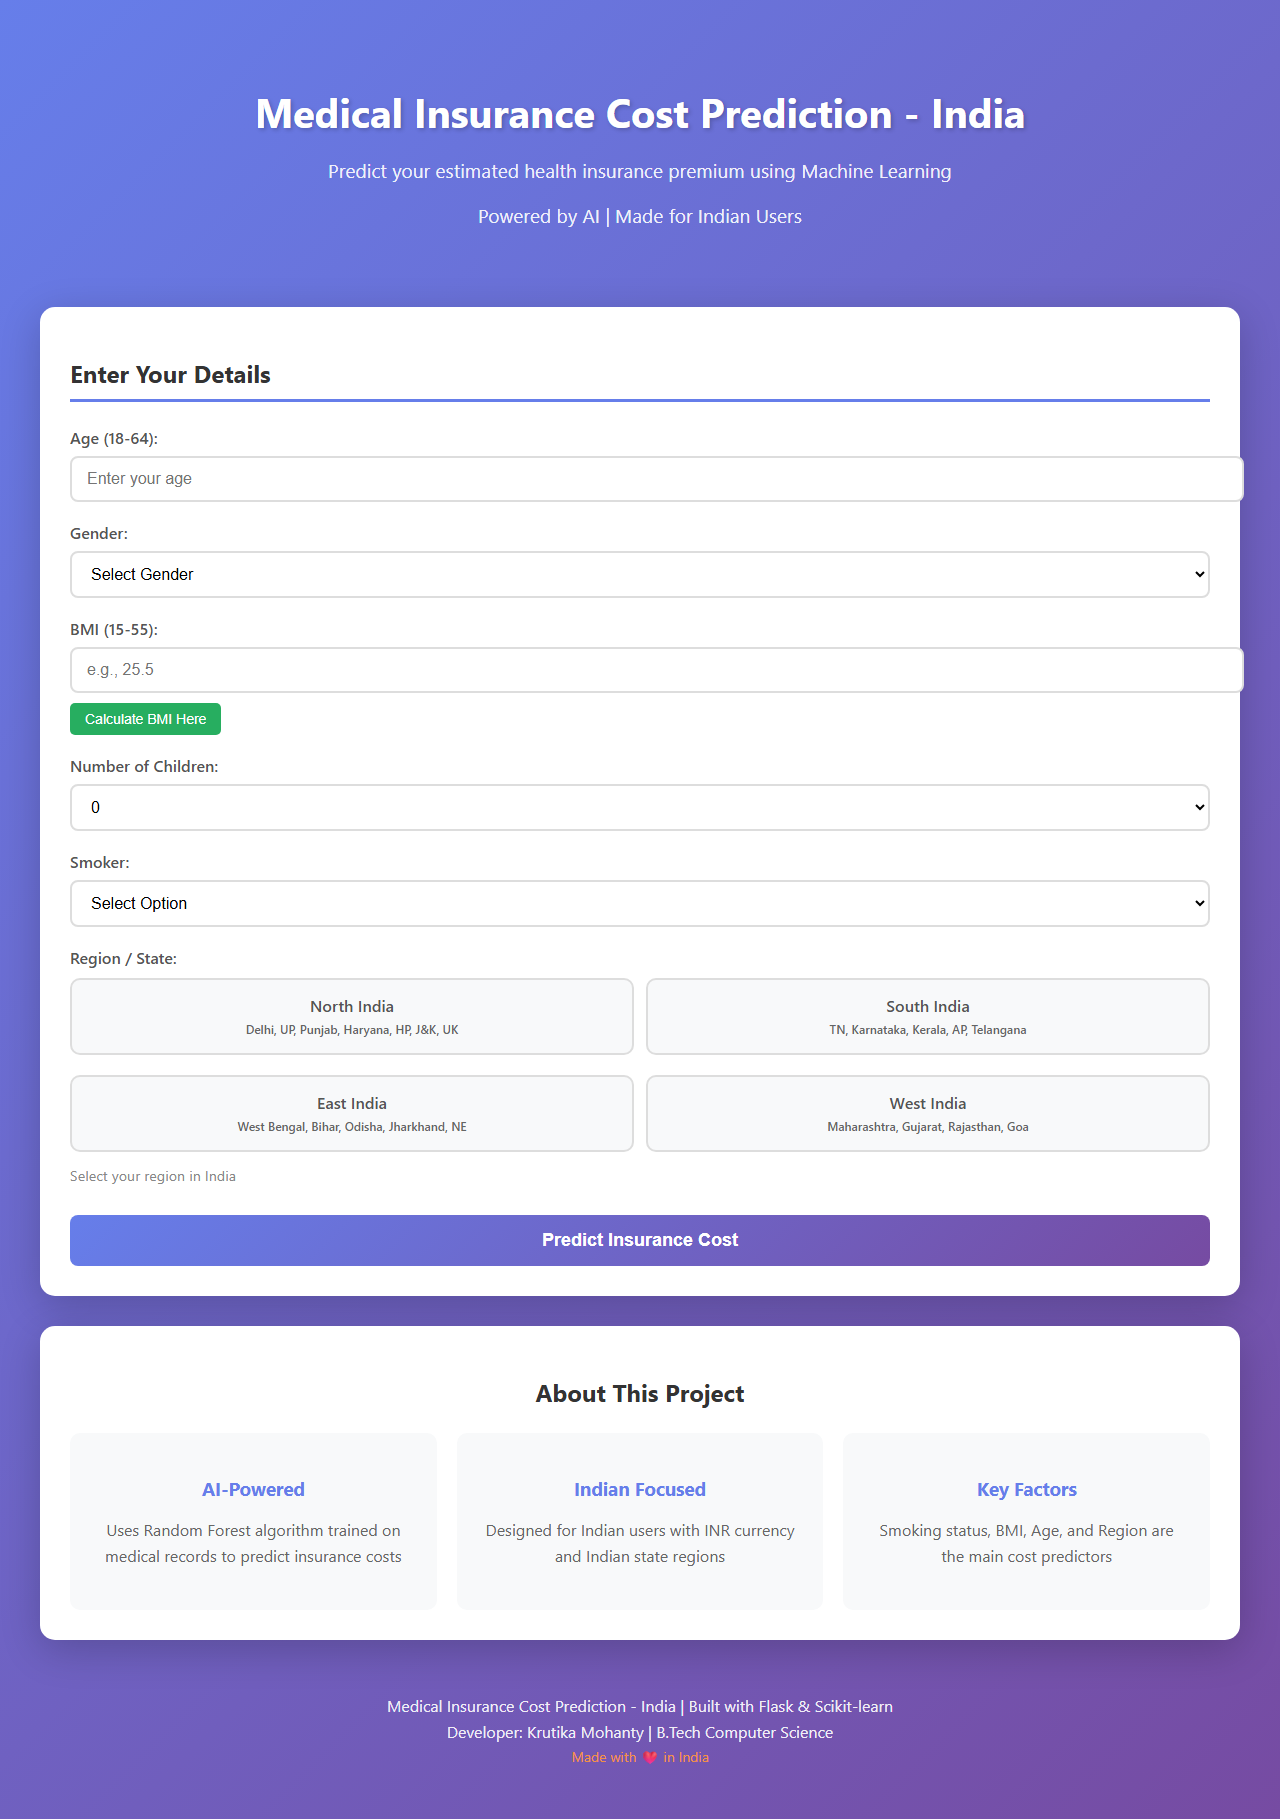
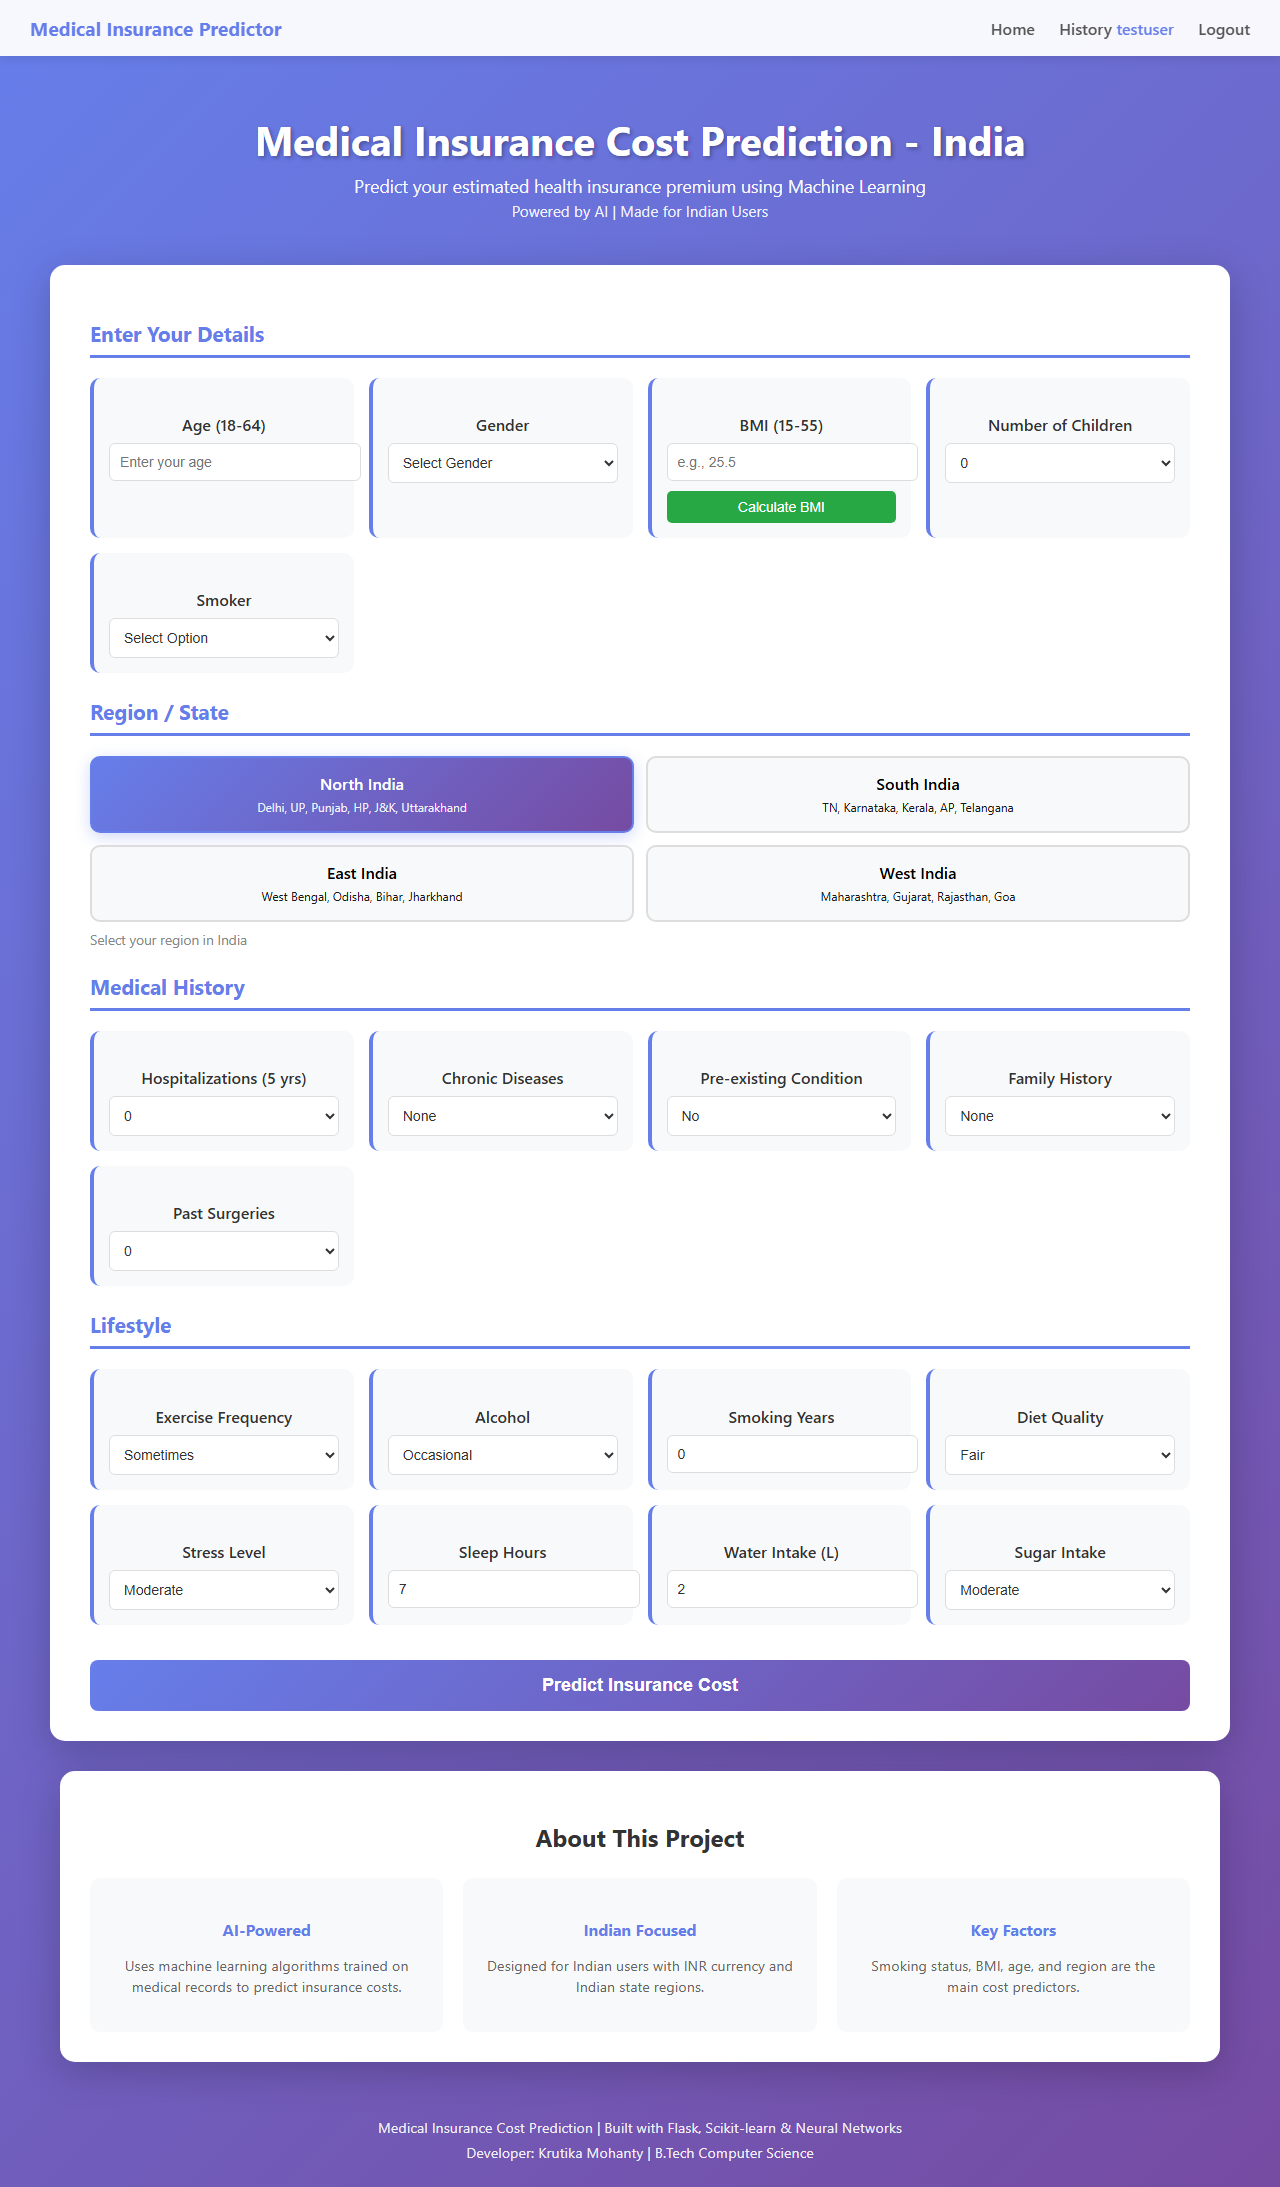
Capture fresh screenshots matching current interface - Flask login, form, result, and Streamlit app

Changed region(s): [[0.0, 0.0, 1.0, 0.9852], [0.75, 0.0616, 0.7812, 0.0924]]

diff --git a/capture_screenshots.py b/capture_screenshots.py
@@ -1,0 +1,134 @@
+"""
+Capture app screenshots using Playwright.
+Updated to match current interface with radio buttons for region.
+"""
+import subprocess
+import time
+import sys
+import os
+
+print("=" * 60)
+print("CAPTURING APP SCREENSHOTS")
+print("=" * 60)
+
+# Start Flask app
+print("\n[1] Starting Flask app...")
+flask_process = subprocess.Popen(
+    [sys.executable, 'app.py'],
+    stdout=subprocess.PIPE,
+    stderr=subprocess.PIPE,
+    cwd=os.getcwd()
+)
+time.sleep(5)
+
+from playwright.sync_api import sync_playwright
+
+with sync_playwright() as p:
+    browser = p.chromium.launch(headless=True)
+    page = browser.new_page(viewport={'width': 1280, 'height': 900})
+
+    # Screenshot 1: Flask login page
+    print("\n[2] Capturing Flask login page...")
+    page.goto('http://127.0.0.1:8080/login', wait_until='networkidle')
+    page.wait_for_timeout(2000)
+    page.screenshot(path='screenshots/flask_login.png', full_page=True)
+    print("  Saved: screenshots/flask_login.png")
+
+    # Register a test user
+    print("[3] Registering test user...")
+    page.goto('http://127.0.0.1:8080/register', wait_until='networkidle')
+    page.wait_for_timeout(1000)
+    page.fill('#username', 'testuser')
+    page.fill('#email', 'test@example.com')
+    page.fill('#password', 'password123')
+    page.click('button[type="submit"]')
+    page.wait_for_timeout(2000)
+
+    # Login
+    print("[4] Logging in...")
+    page.goto('http://127.0.0.1:8080/login', wait_until='networkidle')
+    page.wait_for_timeout(1000)
+    page.fill('#username', 'testuser')
+    page.fill('#password', 'password123')
+    page.click('button[type="submit"]')
+    page.wait_for_timeout(3000)
+
+    # Screenshot 2: Prediction form
+    print("[5] Capturing prediction form...")
+    page.screenshot(path='screenshots/web_interface.png', full_page=True)
+    print("  Saved: screenshots/web_interface.png")
+
+    # Fill and submit prediction
+    print("[6] Filling prediction form...")
+    page.fill('input[name="age"]', '35')
+    page.select_option('select[name="sex"]', 'female')
+    page.fill('input[name="bmi"]', '27.5')
+    page.select_option('select[name="children"]', '1')
+    page.select_option('select[name="smoker"]', 'no')
+
+    # Region - click the label (radio input is hidden by CSS)
+    page.click('label[for="region-north"]')
+
+    # Medical history
+    page.select_option('select[name="hospitalizations"]', '0')
+    page.select_option('select[name="chronic_diseases"]', '0')
+    page.select_option('select[name="pre_existing"]', '0')
+    page.select_option('select[name="family_history"]', '1')
+    page.select_option('select[name="surgeries"]', '0')
+
+    # Lifestyle
+    page.select_option('select[name="exercise_freq"]', '3')
+    page.select_option('select[name="alcohol"]', '1')
+    page.fill('input[name="smoking_years"]', '0')
+    page.select_option('select[name="diet_quality"]', '3')
+    page.select_option('select[name="stress_level"]', '2')
+    page.fill('input[name="sleep_hours"]', '7')
+    page.fill('input[name="water_intake"]', '2.5')
+    page.select_option('select[name="sugar_intake"]', '1')
+
+    page.click('.predict-btn')
+    page.wait_for_timeout(3000)
+
+    # Screenshot 3: Prediction result
+    print("[7] Capturing prediction result...")
+    page.screenshot(path='screenshots/prediction_result.png', full_page=True)
+    print("  Saved: screenshots/prediction_result.png")
+
+    browser.close()
+
+# Stop Flask
+print("\n[8] Stopping Flask app...")
+flask_process.terminate()
+flask_process.wait()
+
+# Capture Streamlit screenshots
+print("\n[9] Starting Streamlit app...")
+streamlit_process = subprocess.Popen(
+    [sys.executable, '-m', 'streamlit', 'run', 'streamlit_app.py', '--server.port', '8501', '--server.headless', 'true'],
+    stdout=subprocess.PIPE,
+    stderr=subprocess.PIPE,
+    cwd=os.getcwd()
+)
+time.sleep(10)
+
+with sync_playwright() as p:
+    browser = p.chromium.launch(headless=True)
+    page = browser.new_page(viewport={'width': 1280, 'height': 900})
+
+    # Screenshot 4: Streamlit main page
+    print("[10] Capturing Streamlit main page...")
+    page.goto('http://localhost:8501', wait_until='networkidle')
+    page.wait_for_timeout(5000)
+    page.screenshot(path='screenshots/streamlit_main.png', full_page=True)
+    print("  Saved: screenshots/streamlit_main.png")
+
+    browser.close()
+
+# Stop Streamlit
+print("\n[11] Stopping Streamlit app...")
+streamlit_process.terminate()
+streamlit_process.wait()
+
+print("\n" + "=" * 60)
+print("ALL SCREENSHOTS CAPTURED!")
+print("=" * 60)
